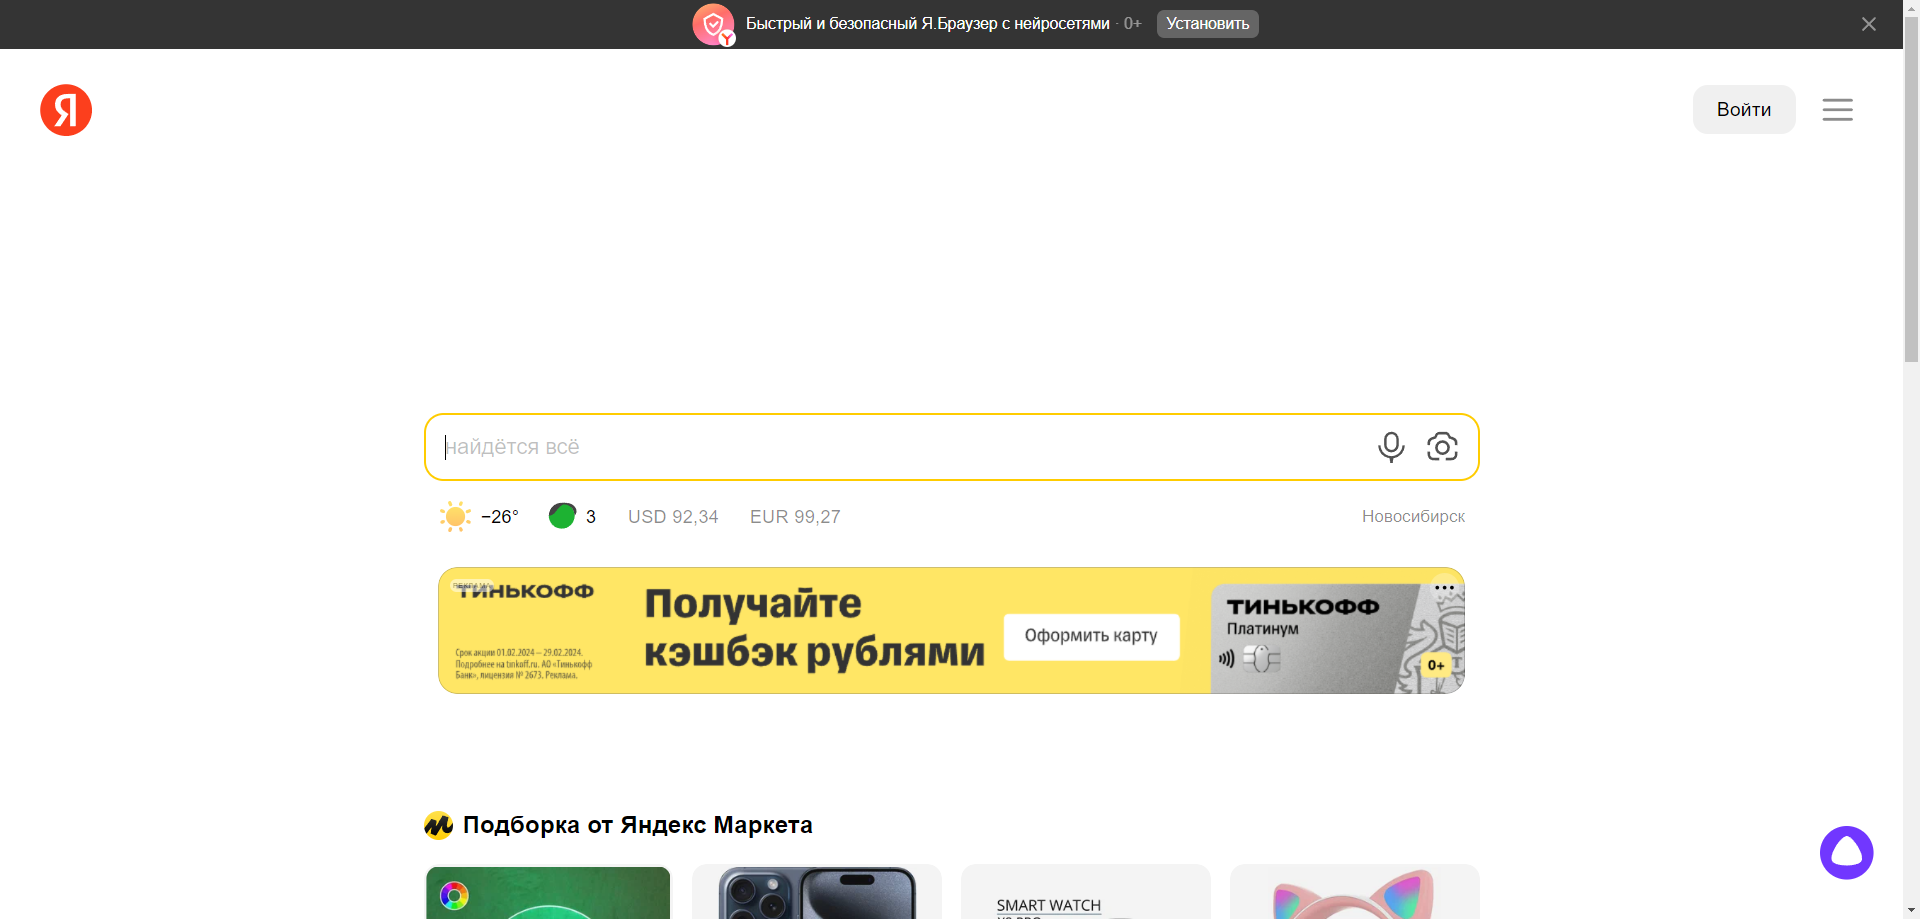
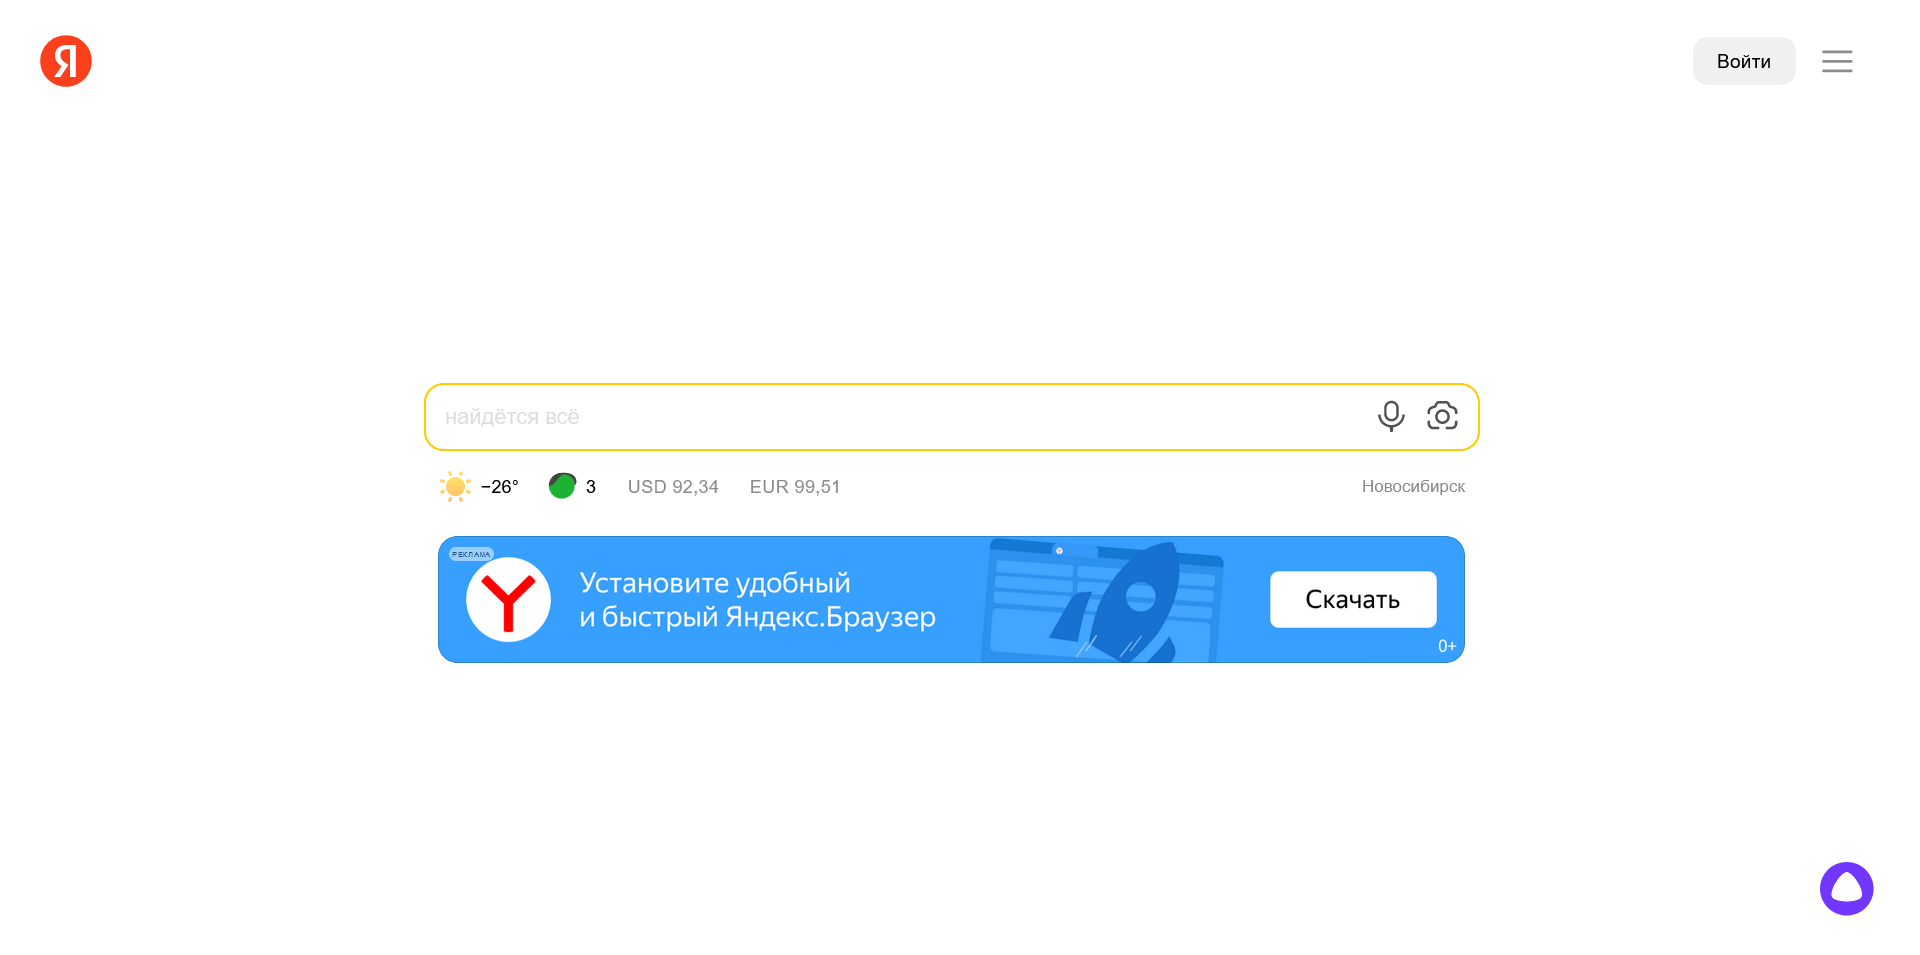
GeckoDriverManager

diff --git a/Lesson_6/lesson_6_ya.py b/Lesson_6/lesson_6_ya.py
@@ -2,10 +2,15 @@ from time import sleep
 from selenium import webdriver
 from selenium.webdriver.chrome.service import Service as ChromeService
 from webdriver_manager.chrome import ChromeDriverManager
+from selenium import webdriver
+from selenium.webdriver.firefox.service import Service as FirefoxService
+from webdriver_manager.firefox import GeckoDriverManager
 
-driver = webdriver.Chrome(service=ChromeService(ChromeDriverManager().install())) 
+driver = webdriver.Firefox(service=FirefoxService(GeckoDriverManager().install()))
+
+##driver = webdriver.Chrome(service=ChromeService(ChromeDriverManager().install())) 
+
 driver.maximize_window()
 driver.get("http://ya.ru/")
-sleep(5)
-driver.save_screenshot('./test.jpg')
+driver.save_screenshot('./test.png')
 driver.quit
